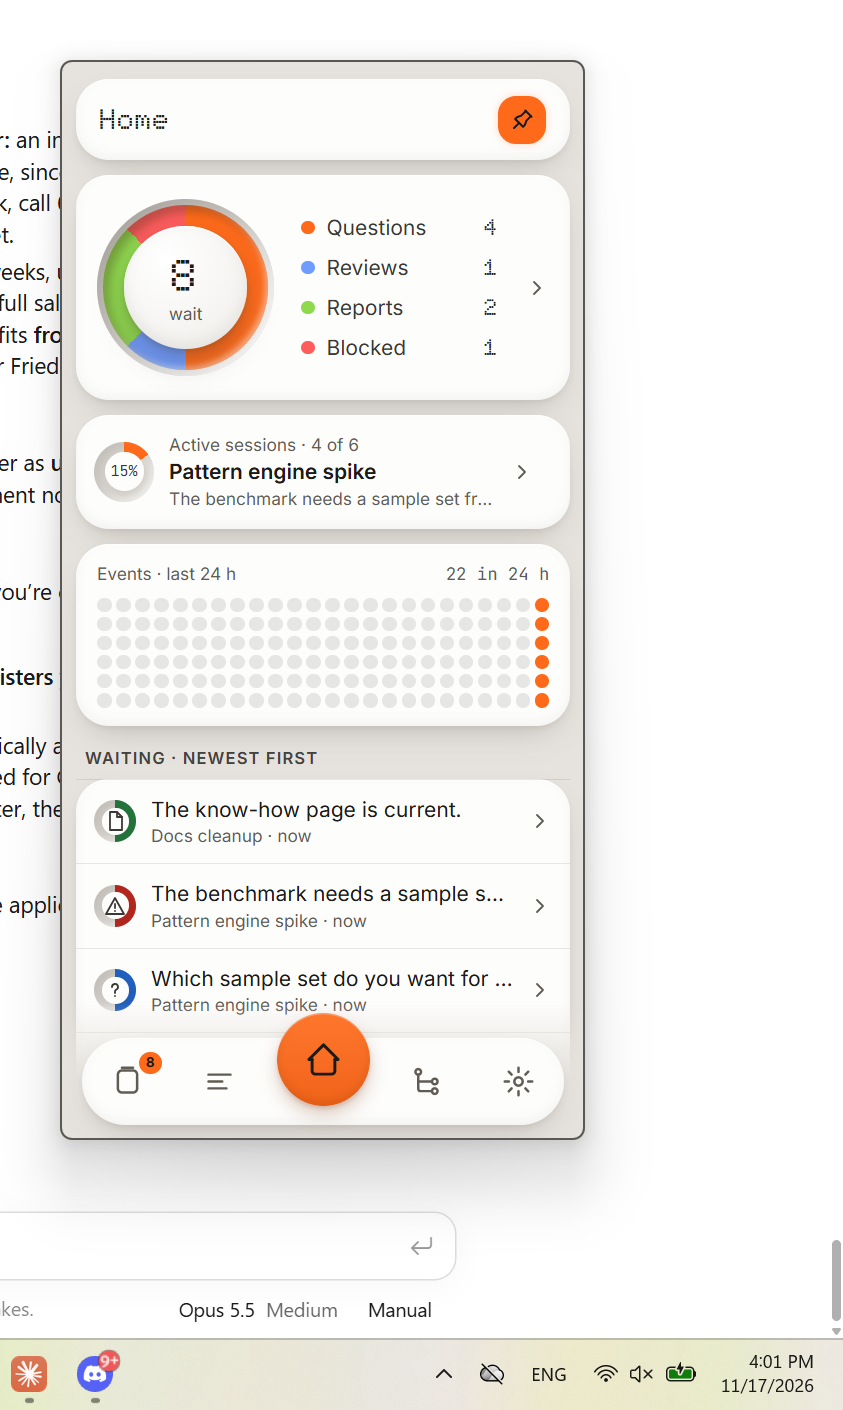
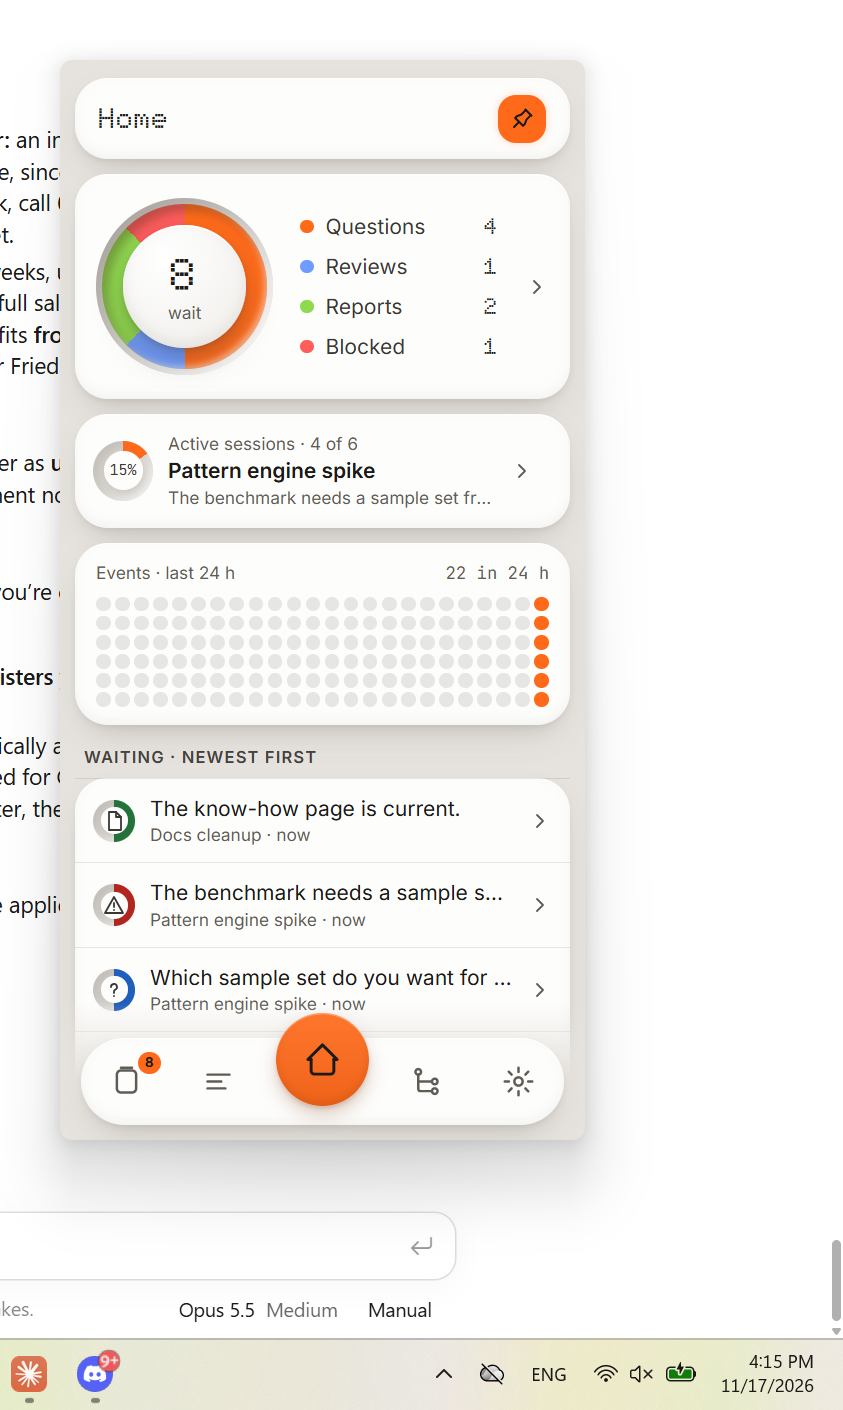
Remove the outline of the tray widget
The form padding and the system border color made a 1-pixel outline.
The widget now has only the rounded corners and the shadow of the
system, so the end of the grow has no outline pop.

diff --git a/session-orchestrator/src/Orchestrator.Tray/WidgetForm.cs b/session-orchestrator/src/Orchestrator.Tray/WidgetForm.cs
@@ -7,7 +7,7 @@ using Orchestrator.Web.Components;
 namespace Orchestrator.Tray;
 
 /// <summary>
-/// The widget: 350 × 720 logical pixels (lower on a small work area), no title bar, rounded corners, a thin border, not in the taskbar.
+/// The widget: 350 × 720 logical pixels (lower on a small work area), no title bar, rounded corners, no outline, not in the taskbar.
 /// It holds the BlazorWebView with the A4 views of Orchestrator.Web. A drag of the page header moves it. The saved place
 /// (place.json) keeps its position for the next show and the next start; without a saved place it opens in the corner above the tray.
 /// Close hides the widget. Only Exit in the tray menu stops the app. The widget grows from its bottom edge when it shows,
@@ -18,7 +18,8 @@ public sealed partial class WidgetForm : Form
     public const int LogicalWidth = 350;
     public const int LogicalHeight = 720;
 
-    static readonly Color Border = Color.FromArgb(0x5a, 0x58, 0x54);
+    // The canvas color of the page. It shows only before the web view paints.
+    static readonly Color Canvas = Color.FromArgb(0xe6, 0xe3, 0xde);
 
     readonly BlazorWebView view;
     readonly string? placeFile;
@@ -39,9 +40,8 @@ public sealed partial class WidgetForm : Form
         TopMost = pinned;
         Text = "Orchestrator";
         Icon = icon;
-        // The 1-pixel padding shows the back color as the thin border around the web view.
-        BackColor = Border;
-        Padding = new Padding(1);
+        // No outline: the web view fills the window. The rounded corners and the shadow of the system mark the edge.
+        BackColor = Canvas;
         view = new BlazorWebView { Dock = DockStyle.Fill, HostPage = "wwwroot/index.html", Services = services };
         view.RootComponents.Add<Routes>("#app");
         view.RootComponents.Add<HeadOutlet>("head::after");
@@ -251,14 +251,14 @@ public sealed partial class WidgetForm : Form
     }
 
     /// <summary>
-    /// The frame of the system: rounded corners, the border color and the shadow. The frame always has the full window size,
+    /// The frame of the system: rounded corners and the shadow, with no border line. The frame always has the full window size,
     /// so the grow turns it off and shows the rounded window region only.
     /// </summary>
     void Frame(bool on)
     {
         var round = on ? DwmwcpRound : DwmwcpDoNotRound;
         _ = DwmSetWindowAttribute(Handle, DwmwaWindowCornerPreference, ref round, sizeof(int));
-        var color = on ? Border.R | (Border.G << 8) | (Border.B << 16) : DwmwaColorNone;
+        var color = DwmwaColorNone;
         _ = DwmSetWindowAttribute(Handle, DwmwaBorderColor, ref color, sizeof(int));
         var policy = on ? DwmncrpUseWindowStyle : DwmncrpDisabled;
         _ = DwmSetWindowAttribute(Handle, DwmwaNcRenderingPolicy, ref policy, sizeof(int));

diff --git a/session-orchestrator/docs/plan.md b/session-orchestrator/docs/plan.md
@@ -1119,6 +1119,7 @@ Findings:
 |---|---|---|
 | E1-1 | The system frame (rounded corners, border, shadow) has the full window size, also with a window region. During the grow it showed a full-height border around an empty area | Fixed: the grow turns the frame off (no rounding, no border color, no non-client rendering) and turns it on again at the end |
 | E1-2 | Transparent parts of the widget: a window region or a color key gives any shape with hard edges, and the cut parts let clicks through. Soft edges and part transparency (alpha) need WebView2 composition hosting, which BlazorWebView for WinForms does not give | Open: spike E1-S1, last item of the stream |
+| E1-4 | The user asked if the outline is necessary. It is not: the widget had a 1-pixel form padding and a system border color | Done: no outline. The rounded corners and the shadow of the system mark the edge. Self-test 25 of 25 PASS; `docs/screens/tray-grow-1.png`, `tray-grow-3.png` |
 | E1-3 | The proposal page has three tabs: Components (M1 to M3, M5 to M7, S1, S2), Screen transitions (T1 tab change, T2 open a document) and Tray grow (G1, with live controls for mode, curve and times). The user tweaks the grow there | Open: user review |
 
 Next steps of E1, in order:
